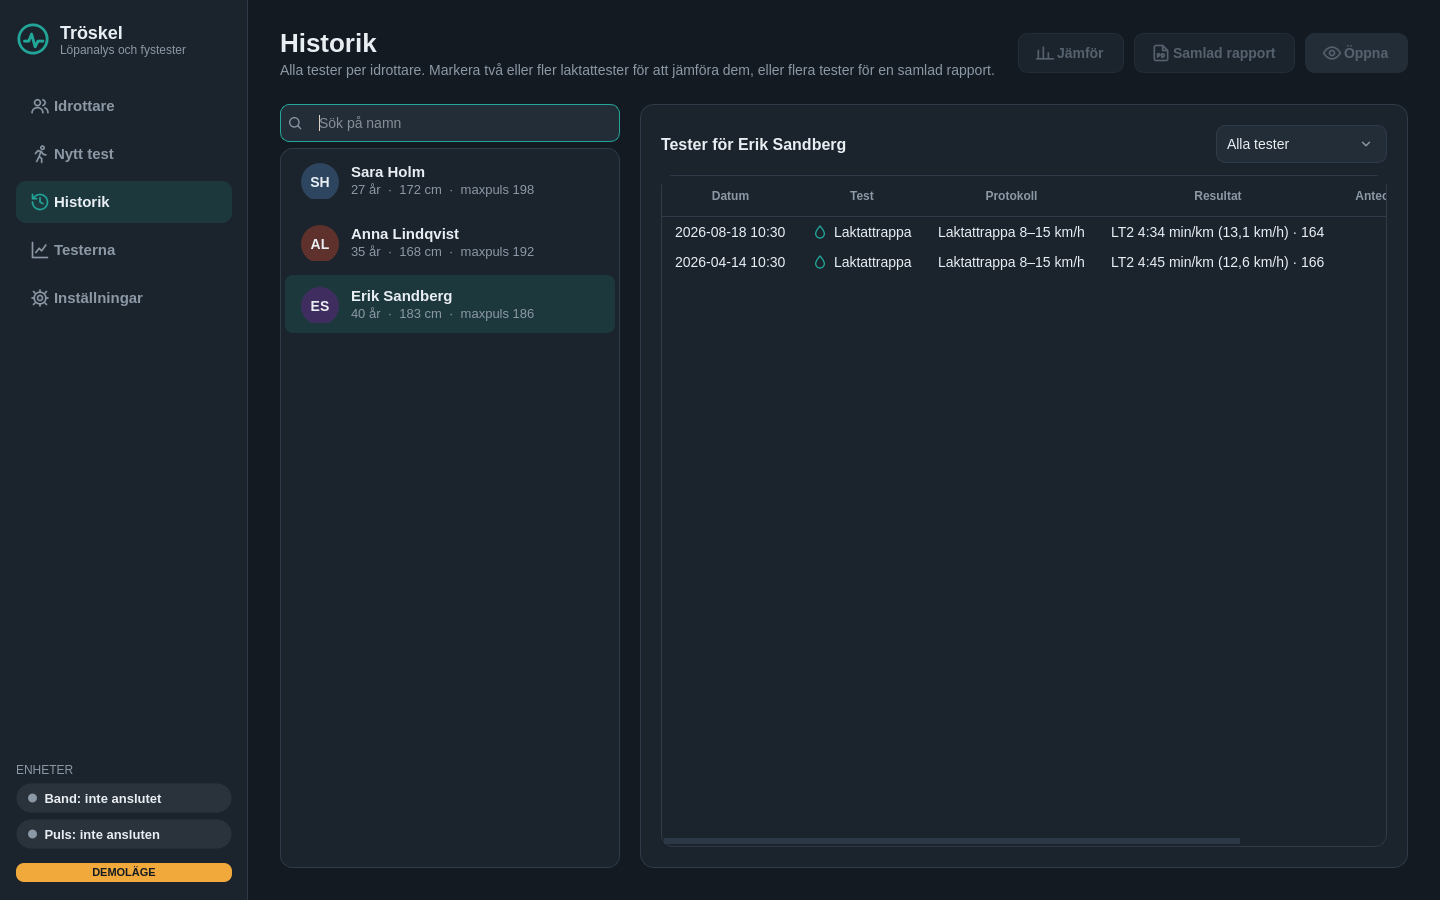
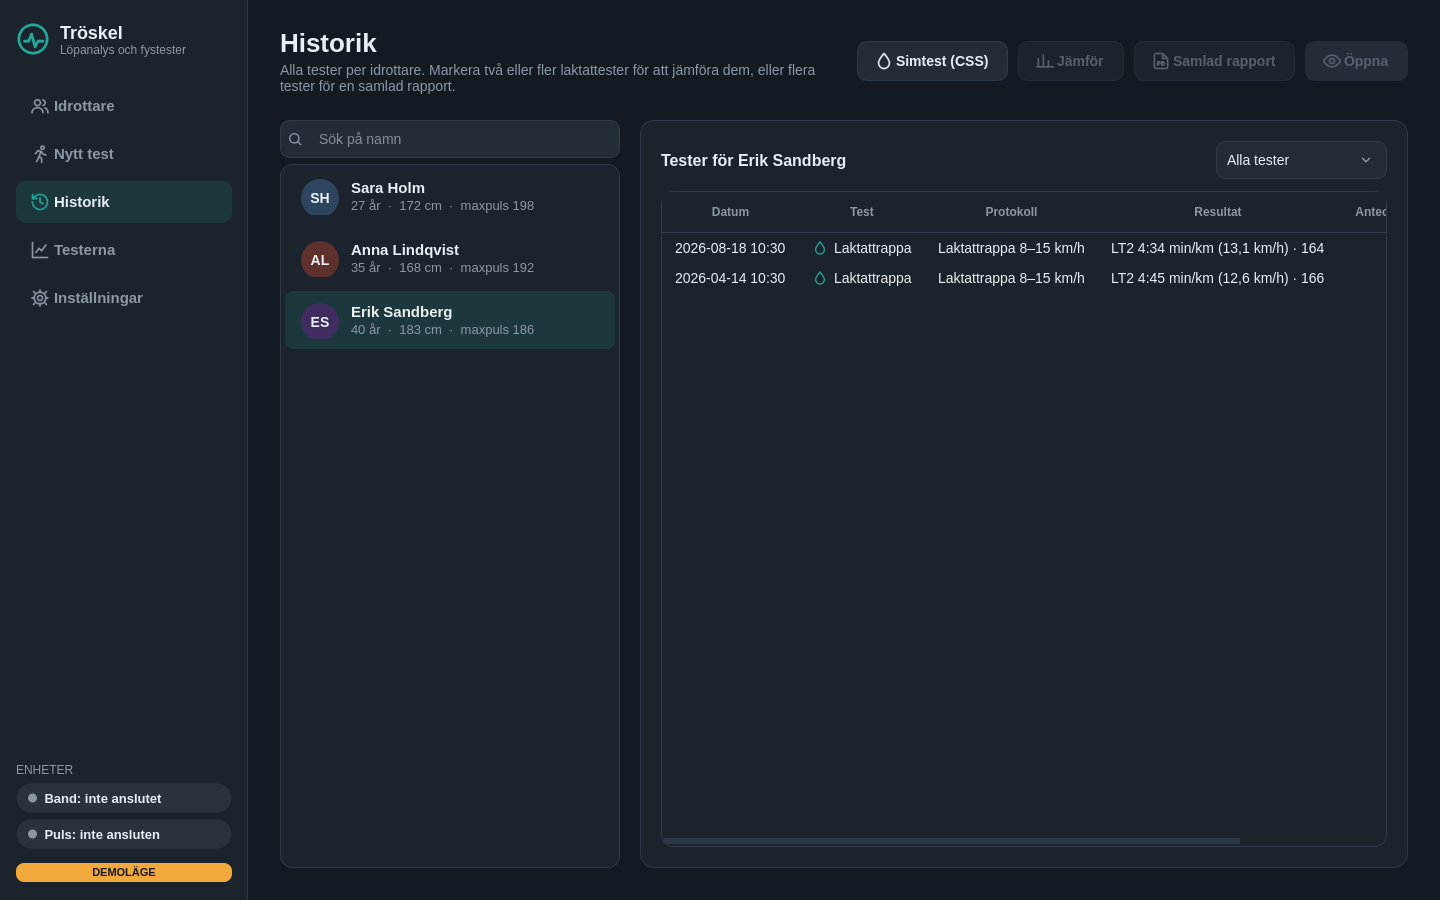
Docs: the swimming test in the handbook, the plan's guide per sport, and two rows to try on Windows (#666)
- Handbook: Simtestet (CSS) under Träningsschema, with a screenshot of the form; the history page
  names the button. docs/TRANINGSPLAN.md describes the form, the storage and the guide per sport.
- docs_shots.py: the view simtest; historik taken again (the new button).
- docs/PROV.md: the form and the reading page on the gym computer.

diff --git a/tools/docs_shots.py b/tools/docs_shots.py
@@ -41,7 +41,7 @@ FAST = 20                 # the demo clock runs this many times faster, so a sta
 DEMO_TEST_DATES = (datetime(2026, 4, 14, 8, 30, tzinfo=timezone.utc),
                    datetime(2026, 8, 18, 8, 30, tzinfo=timezone.utc))
 VIEWS = ("idrottare", "installningar", "installningar-las", "installningar-epost", "testerna", "testerna-cykel",
-         "historik",
+         "historik", "simtest",
          "jamforelse", "resultat-laktat", "resultat-zoner", "resultat-klocka", "resultat-vo2max", "skicka",
          "traningsschema", "traningsschema-idrotter", "traningsschema-mal",
          "nytt-test-idrottare", "nytt-test-testtyp", "protokoll-laktat", "protokoll-maxpuls",
@@ -357,6 +357,16 @@ class Studio:
         self.win.go("history")
         self.win.history.select_athlete(self.erik.id)
         return self.win
+
+    def simtest(self) -> Any:
+        """The form for the swimming test with two times written in."""
+        from lopanalys.ui.views.css_test import CssTestDialog
+        dlg = CssTestDialog(self.win.ctx, self.erik, None, self.win)
+        dlg.t400.setText("6:40")
+        dlg.t200.setText("3:10")
+        dlg.show()
+        self.extra.append(dlg)
+        return dlg
 
     def jamforelse(self) -> Any:
         from lopanalys.ui.views.history import CompareDialog

diff --git a/docs/TRANINGSPLAN.md b/docs/TRANINGSPLAN.md
@@ -56,7 +56,7 @@ Kommandot gör ett schema för demolöparen (aldrig en riktig person): PDF, kale
 | Ombyggnad av resten av planen (nya pass och ny volym) efter ett omtest, sjukdom och missade pass | Inte byggt (resten av steg P4) |
 | Flera idrotter: veckotiden fördelad efter andelar, hårda dagar och långpass över idrotterna, platser med flera idrotter | Byggt (steg 1 av 4), se [Flera idrotter](#flera-idrotter) |
 | Cykelns och SkiErgens egna pass med mål i watt och tid per 500 m, sweet spot som 88–94 % av tröskelwatten och ett eget test per idrott | Byggt (steg 2 av 4), se [Passbiblioteket](#passbiblioteket) och [Testet per idrott](#testet-per-idrott) |
-| Styrka (0–3 pass i veckan ovanpå uthållighetsveckan) och simning på ansträngning eller på ett manuellt CSS-test | Byggt i motorn och i appen (steg 3 av 4), se [Styrka](#styrka) och [Simning](#simning). Antalet styrkepass väljs i formuläret; formuläret för simtestet finns inte i programmet än |
+| Styrka (0–3 pass i veckan ovanpå uthållighetsveckan) och simning på ansträngning eller på ett manuellt CSS-test | Byggt i motorn och i appen (steg 3 av 4), se [Styrka](#styrka) och [Simning](#simning). Antalet styrkepass väljs i formuläret, och simtestet skrivs in från *Historik* |
 | Idrotterna i formuläret och utskriften: roll och andel, idrotterna per veckodag, en färg per idrott, idrottstabellen, watt i zonerna, veckans tid per idrott och belastningen | Byggt (steg 4 av 4), se [Utskriften](#4-utskriften). Inte provat på Windows ([PROV.md](PROV.md)) |
 | Återhämtningsblock efter ett mål, passkort | Inte byggt |
 
@@ -219,7 +219,7 @@ Idrottaren anger idrotterna med en roll och en andel av veckotiden (`PlanRequest
 - **Löpningen har ett eget tak:** löpminuterna växer högst 10 % över den största löpveckan före, så länge platsen tillåter en annan idrott.
 - **Passen i idrottens egna mallar (steg 2):** veckan fylls med löpningens mallar. När ett pass får sin idrott tar det idrottens mall på samma plats (`library.in_sport`): samma familj och steg, och varje steg exakt lika långt som löpningens, så veckans minuter står kvar. Cykelns och SkiErgens mallar kan ha fler hårda minuter, så taket på en fjärdedel över LT1 prövas igen med dem, och går veckan över stegar motorn ned som förut. Skidor och rullskidor har SkiErgens mallar, simning löpningens med idrottens namn först i titeln (*Simning: lugnt pass*) tills steg 3. Testet och loppet är desamma i alla idrotter. Se [Passbiblioteket](#passbiblioteket).
 - **Zonerna och målen per idrott:** varje idrott får puls ur sitt eget test, och målet i testets belastning (`resolve.targets`): löpning fart i min/km, cykel watt och SkiErg watt och tid per 500 m (Concept2: W = 2,80 / (s/m)³, `core.sport`). Watten avrundas till hela watt. Skidor lånar SkiErgens pulszoner tills ett eget test finns (`models.BORROWS`), men inte watten, och planen säger det. En idrott utan test får zon och ansträngning, och planen säger det, så simning går på upplevd ansträngning (RPE).
-- **Kapaciteten per idrott i programmet:** löpningens ur testet som väljs i formuläret (`services.plan_capacity`), de andra idrotternas ur idrottens senaste laktat-, maxpuls- eller zontest (`services.sport_capacity`), annars ur maxpulsen i idrotten. Skidor och simning har inga tester i Tröskel. Ett nytt test erbjuder omläggning bara i löpning.
+- **Kapaciteten per idrott i programmet:** löpningens ur testet som väljs i formuläret (`services.plan_capacity`), de andra idrotternas ur idrottens senaste laktat-, maxpuls- eller zontest (`services.sport_capacity`), annars ur maxpulsen i idrotten. Simningens kommer ur idrottarens senaste CSS-test (`services.swim_capacity`), och utan test går simningen på ansträngning. Skidor har inga tester i Tröskel. Ett nytt test erbjuder omläggning bara i löpning.
 - **Delarna** heter som förut i löpning. I de andra idrotterna heter de *Jämnt* och *Nedvarvning* i stället för *Löpning* och *Nedjogg*, och vilan med lugn rörelse *lugnt 2 min emellan* (`text.part_line`).
 - **Appen** har samma regler i TypeScript och provas mot Python-motorn: tio fall med flera idrotter (bland dem cykel och SkiErg med test, cykel ensam och skidor som huvudidrott), och titel och delar med watt och tid per 500 m för varje mall i två scheman, på svenska och engelska. Appen visar watt och tid per 500 m i passkortet. Länken bär `power_low_w` och `power_high_w` bara i mål som har watt, så ett löpschema ser ut som förut och en äldre app läser det.
 - **Äldre scheman** (motor 4) har löpningens mallar också i cykelpassen. De läses som de är och visas med idrottens namn och cykelns watt.
@@ -247,7 +247,9 @@ Styrka är en egen idrott utan zoner och utan test (`models.STRENGTH`, beslutet 
 
 Simningen har egna mallar (se [Passbiblioteket](#passbiblioteket)) och följer upplevd ansträngning (RPE). Utan simtest visar passet zon och ansträngning, utan siffror.
 
-- **Simtestet** är ett manuellt test utan utrustning (`assessments/css.py`): 400 m och sedan, efter full vila, 200 m, båda så fort ett jämnt tempo tillåter. CSS-tempot per 100 m är (T400 − T200) / 2. Testet sparas som ett manuellt pass med `to_result` (`kind: "swim_css"`), och `capacity` ger planens `Capacity` för simning. Tiderna kontrolleras: 200 m mellan 1:40 och 10:00, 400 m mellan 3:20 och 20:00, och 400 m tar mer än dubbelt så lång tid som 200 m.
+- **Simtestet** är ett manuellt test utan utrustning (`assessments/css.py`): 400 m och sedan, efter full vila, 200 m, båda så fort ett jämnt tempo tillåter. CSS-tempot per 100 m är (T400 − T200) / 2. `capacity` ger planens `Capacity` för simning. Tiderna kontrolleras: 200 m mellan 1:40 och 10:00, 400 m mellan 3:20 och 20:00, och 400 m tar mer än dubbelt så lång tid som 200 m.
+- **I programmet** skrivs testet in i formuläret *Simtest (CSS)* på sidan *Historik* (`ui/views/css_test.py`): tiderna, datumet och bassängens längd. Felen är texterna som `css.check` ger nycklar till. Testet sparas som ett pass utan mätvärden (`services.save_css_test`): `Session` med `kind = TestKind.SWIM_CSS`, `sport = Sport.SWIM`, inga steg och `result = css.to_result(test)`. Simning är därför en sport i `core.sport.Sport`, men den går inte att välja i guiden *Nytt test*. Historiken visar testet med tempot och öppnar det i formuläret igen. Handboken: [Simtestet (CSS)](handbok/traningsschema/traningsschema.md#simtestet-css).
+- **Schemat tar testet av sig självt:** `services.sport_capacity` ger simningen kapaciteten ur idrottarens senaste giltiga CSS-test (`services.swim_capacity`), och formuläret säger under idrotten vilket test tempot kommer ur.
 - **Med ett simtest** får simpassen tempo per 100 m i varje zon (`resolve.SWIM_ZONES`), som sekunder runt CSS-tempot:
 
 | Zon | Tempo per 100 m |
@@ -371,9 +373,11 @@ Utskriften byggs i rapportmotorn (`report/plan_builder.py` och mallen `plan.html
 | Sida | Innehåll |
 |---|---|
 | **Översikten** (sida 1) | Målet och delmålen, perioden, testet schemat bygger på, tillgänglig tid, fyra nyckeltal, blocken som ett band över en stapel per vecka (tid per zon, med lätt vecka, test och lopp utmärkta) och zonerna med puls och fart (watt på cykel, watt och tid per 500 m på SkiErg) |
-| **Så läser du schemat** (1–2 sidor) | Blocken med skälen, zontabellen, passen som schemat använder med syfte och känsla, reglerna bakom schemat och ansvarstexten |
+| **Så läser du schemat** (1–2 sidor, upp till 3 med flera idrotter) | Rutan *Så använder du schemat* och schemats anmärkningar, blocken med skälen, zontabellen, passen som schemat använder med syfte och känsla, reglerna bakom schemat och ansvarstexten |
 | **Veckoblad** (en sida per vecka med pass) | Sju dagar: tid, passets namn och syfte, delarna med zon, puls och fart, en ruta att bocka av och rader att anteckna på. Dagens pass i tidsordning. Veckans syfte överst, och nederst veckans tid per zon och belastningen (`Week.load`) |
 
+- **Passen i schemat** (`plan_builder._guide`) tar varje mall som schemat använder, i en grupp per idrott som har egna mallar: löpning, cykel (också sweet spot), SkiErg, simning och styrka, och idrottens eget test. Grupperna står i idrotternas ordning med huvudidrotten först och har idrotten som rubrik. Skidor använder SkiErgens mallar och står i dess rubrik. Ett schema med bara löpning har en grupp utan rubrik.
+- **Sidbrytningarna:** rutan *Så använder du schemat* och anmärkningarna står överst i läsanvisningen och inte på översikten, där de inte rymdes och hamnade ensamma på en egen sida. Ansvarstexten hålls ihop med reglerna. Provet `tests/report/test_report_plan_guide.py` läser PDF:en sida för sida.
 - **Titlarna** kommer ur `Plan.title`, så i ett schema med flera idrotter eller med styrka börjar varje pass med idrotten.
 - **Styrka och simning:** styrkepassen står på veckobladet utan zon, med ansträngningen, i styrkans färg, och sist i idrottstabellen med antalet pass i veckan. Simningen med ett CSS-test får tid per 100 m i passen och en rad under *Dina zoner*. Veckans tid i veckohuvudet är uthållighetstiden; stapeln per idrott och belastningen tar med styrkan.
 - **Flera idrotter:** idrottstabellen på översikten (roll, andel som procent av andelarnas summa, och testet med datum, eller att skidor lånar SkiErgens zoner och att simning går på ansträngning) i stället för raden *Bygger på*. Under *Dina zoner* en rad per annan idrott vars test ger watt. En färg per idrott (`core.zone_colors.sport_color`, ingen av dem en zonfärg) bredvid passets namn i stället för zonfärgen, och veckans tid per idrott som en stapel på veckobladet. Resten av översikten ritas lite mindre, så att den ryms på en sida.

diff --git a/docs/handbok/traningsschema/traningsschema.md b/docs/handbok/traningsschema/traningsschema.md
@@ -8,6 +8,7 @@
 - [Öppna träningsschemat](#öppna-träningsschemat)
 - [Fyll i formuläret](#fyll-i-formuläret)
   - [Flera idrotter](#flera-idrotter)
+  - [Simtestet (CSS)](#simtestet-css)
   - [Vad testet ger schemat](#vad-testet-ger-schemat)
 - [Förhandsvisa schemat](#förhandsvisa-schemat)
 - [Förnya schemat](#förnya-schemat)
@@ -55,11 +56,32 @@ Under *Idrotter* finns löpning, cykel, SkiErg, skidor och simning. Löpning är
 - **Roll:** *Huvudidrott* (målets idrott, som får långpasset och testet), *Stödjande* eller *Underhåll* (högst ett lugnt pass i veckan). Det finns en huvudidrott: väljer du en ny blir den förra stödjande.
 - **Andel:** hur stor del av veckans tid idrotten får, i tiotal procent. Rollen fyller i 60, 30 eller 10 %. Andelarna räknas mot varandra, så 60 och 30 ger två tredjedelar och en tredjedel.
 
-Under varje idrott utom löpning står vad zonerna bygger på: idrottens senaste laktat-, maxpuls- eller zontest, annars maxpulsen i idrotten (uppskattade zoner), annars bara zon och ansträngning. Skidor lånar SkiErgens zoner, och simning går på upplevd ansträngning: simtestet (CSS) går inte att göra i programmet än. Med flera idrotter får varje veckodag en knapp för idrotterna den dagen, där *Alla* är förvalt.
+Under varje idrott utom löpning står vad zonerna bygger på: idrottens senaste laktat-, maxpuls- eller zontest, annars maxpulsen i idrotten (uppskattade zoner), annars bara zon och ansträngning. Skidor lånar SkiErgens zoner. Simning tar tempot per 100 m ur idrottarens senaste [simtest](#simtestet-css), och går på upplevd ansträngning när det inte finns något. Med flera idrotter får varje veckodag en knapp för idrotterna den dagen, där *Alla* är förvalt.
 
 ![Formuläret med löpning som huvudidrott och cykel som stödjande idrott, och tisdagen bara för cykel](images/idrotter.png)
 
 Hur motorn fördelar passen över idrotterna står i [Träningsplanen → Flera idrotter](../../TRANINGSPLAN.md#flera-idrotter).
+
+### Simtestet (CSS)
+
+Simtestet ger det kritiska simtempot (CSS, Critical Swim Speed): tempot per 100 m som idrottaren kan hålla länge, ett mått på tröskeln i vattnet. Testet görs i bassängen utan utrustning, och du skriver in tiderna efteråt.
+
+1. **Idrottaren simmar** 400 m så fort ett jämnt tempo tillåter, vilar tills hen är återhämtad och simmar sedan 200 m på samma sätt. Båda börjar i vattnet med frånskjut från kanten.
+2. **Öppna *Historik*,** välj idrottaren och tryck *Simtest (CSS)*.
+3. **Skriv in tiderna** på 400 m och 200 m som minuter och sekunder (*6:40* eller *6:40,5*), datumet och bassängens längd (25 eller 50 m). Tempot visas direkt under fälten, till exempel *CSS 1:45 /100 m*: skillnaden mellan tiderna delad med två.
+4. **Tryck *Spara*.**
+
+![Formuläret för simtestet: tiderna på 400 m och 200 m, datum, bassäng och det uträknade tempot](images/simtest.png)
+
+Går tiderna inte ihop står felet i rött när du sparar, och inget sparas:
+
+- **en tid saknas** eller går inte att läsa,
+- **en tid är orimlig:** 200 m ska ligga mellan 1:40 och 10:00, och 400 m mellan 3:20 och 20:00,
+- **400 m tar inte mer än dubbelt så lång tid som 200 m:** då har tiderna oftast bytt plats.
+
+Testet står sedan i *Historik* som *Simning · CSS-test* med tempot. Det har ingen resultatsida: *Öppna* visar formuläret igen, där du kan rätta tiderna. Det går inte att jämföra eller ta med i en samlad rapport, eftersom det inte har några mätvärden.
+
+Nästa gång du bygger ett schema med simning står *Tempot ur CSS-testet* med datum och tempo under idrotten, och simpassen får tid per 100 m i varje zon. Zonerna står i [Träningsplanen → Simning](../../TRANINGSPLAN.md#simning).
 
 ### Vad testet ger schemat
 
@@ -87,14 +109,15 @@ Tryck *Förhandsvisa*. Översikten till höger visar:
 
 Schemat börjar på det idrottaren tränar nu och växer mot den tillgängliga tiden, högst nivåns takt (5, 7 eller 8 %) per belastningsvecka. Ligger starten nära den tillgängliga tiden växer det långsammare, så att hela tiden nås först i slutet av uppbyggnaden. Tränar idrottaren mer än dagarna rymmer börjar schemat på all tillgänglig tid och står still i tid; ökningen ligger då i passen. Samma diagram med linjerna finns på utskriftens första sida.
 
-Saknas något i formuläret står det i rött under översikten, till exempel *Välj nivå*. Ändrar du formuläret efter en förhandsvisning säger en gul rad att översikten inte visar ändringarna än. *Visa utskriften* öppnar hela utskriften: översikten, läsanvisningen, ett blad per vecka med pass och sist skissen över veckorna efter. Veckobladet har dagens pass i tidsordning och veckans belastning längst ned (minuter × zon × idrott, för att jämföra veckorna).
+Saknas något i formuläret står det i rött under översikten, till exempel *Välj nivå*. Ändrar du formuläret efter en förhandsvisning säger en gul rad att översikten inte visar ändringarna än. *Visa utskriften* öppnar hela utskriften: översikten, läsanvisningen, ett blad per vecka med pass och sist skissen över veckorna efter. Läsanvisningen börjar med rutan *Så använder du schemat* och förklarar under *Passen i schemat* varje sorts pass som schemat har. Veckobladet har dagens pass i tidsordning och veckans belastning längst ned (minuter × zon × idrott, för att jämföra veckorna).
 
 Med flera idrotter, eller med styrkepass, börjar varje pass med idrotten (*Löpning: lugnt pass*), och utskriften har också:
 
 - **en tabell över idrotterna** på första sidan: roll, andel av tiden och testet zonerna bygger på, med datum. Styrkan står sist med antalet pass i veckan,
 - **en rad per idrott med watt eller tempo under *Dina zoner***: cykelns watt, SkiErgens watt och tid per 500 m och, med ett simtest, simningens tid per 100 m, zon för zon. Styrkepassen har ingen zon, bara ansträngningen,
 - **en färg per idrott** bredvid passets namn på veckobladet. Färgerna skiljer sig från zonernas,
-- **veckans tid per idrott** som en stapel längst ned på veckobladet.
+- **veckans tid per idrott** som en stapel längst ned på veckobladet,
+- **passen per idrott i läsanvisningen:** *Passen i schemat* har en rubrik per idrott med idrottens egna pass, också testet i idrotten och styrkepassen. Skidor står ihop med SkiErgen, vars pass de använder.
 
 Hur schemat räknas fram (block, lätta veckor, andelen lugn träning) står i [Träningsplanen](../../TRANINGSPLAN.md#2-planmotorn).
 

diff --git a/docs/PROV.md b/docs/PROV.md
@@ -195,6 +195,8 @@ Analysen är byggd och provad mot syntetiska cyklister och stakare, där sanning
 | Kalenderfilen | Spara *Kalenderfil* från sidan *Träningsschema* och öppna den i en iPhone och en Android-telefon | Passen hamnar på rätt dag och klockslag, med å, ä och ö rätt i beskrivningen. En ny import dubblerar inget | |
 | Träningsschemat med flera idrotter | Sidan *Träningsschema* på gymdatorn: kryssa i cykel och SkiErg, välj roller och andelar och två styrkepass, begränsa en dag till cykel, förhandsvisa, spara, öppna igen och spara som PDF | Raden *Idrotter* och knappen per dag ryms i formuläret, allt läses tillbaka, förstasidan med idrottstabellen och watten under *Dina zoner* ryms på en sida och idrottsfärgerna syns i utskriften | |
 | Schemat med e-post | *Skicka till idrottaren* på sidan *Träningsschema* till en egen inkorg, och öppna bilagorna i en iPhone och en Android-telefon | Mejlet kommer fram (inte i skräpposten) med PDF:en och kalenderfilen. Kalenderfilen går att öppna ur mejlet med anvisningen i texten | |
+| Simtestet (CSS) | *Simtest (CSS)* på sidan *Historik* på gymdatorn: skriv in 400 m och 200 m med datum och bassäng, spara, öppna testet igen och rätta en tid. Bygg sedan ett schema med simning och spara det som PDF | Formuläret ryms i fönstret, kalendern öppnas, felen står i rött, testet står i historiken med tempot, och simpassen i PDF:en har tid per 100 m | |
+| Läsanvisningen i schemat | Spara ett schema med bara löpning och ett med fyra idrotter och styrka som PDF på gymdatorn, och skriv ut dem | Rutan *Så använder du schemat* står överst på sida 2, ingen sida är nästan tom, och *Passen i schemat* har en rubrik per idrott | |
 | Om testerna | Sidan *Testerna*: skriv ut *Om testerna* och spara som PDF, för *Löpning*, *Cykel* och *SkiErg* | Varje sport får plats på en A4, texten går att läsa på papper | |
 
 ## FIT-filen och mejlet

diff --git a/docs/handbok/resultat/resultat.md b/docs/handbok/resultat/resultat.md
@@ -122,7 +122,7 @@ Jämförelsen med klockans VO2max eller ett labbtest är *(inte provat på rikti
 
 ![Sidan Historik: idrottarna till vänster och den valda idrottarens tester till höger](images/historik.png)
 
-*Historik* visar alla tester per idrottare, med datum, test, protokoll, resultat och anteckning. Listan uppe till höger filtrerar på testtyp. Dubbelklicka på ett test, eller markera det och tryck på *Öppna*.
+*Historik* visar alla tester per idrottare, med datum, test, protokoll, resultat och anteckning. Listan uppe till höger filtrerar på testtyp. Dubbelklicka på ett test, eller markera det och tryck på *Öppna*. *Simtest (CSS)* skriver in ett simtest för den valda idrottaren, se [Träningsschema → Simtestet (CSS)](../traningsschema/traningsschema.md#simtestet-css).
 
 **Jämför:** markera två till fyra laktattester och tryck på *Jämför*. Kurvorna ritas i samma diagram, med det senaste testets trösklar utritade, och tabellen visar farten och pulsen vid LT1 och LT2 för varje test.
 

diff --git a/docs/ARKITEKTUR.md b/docs/ARKITEKTUR.md
@@ -87,7 +87,7 @@ src/lopanalys/
                 hr_zones.py (Puls- och fartzoner: stabil puls per steg, sambandet puls–fart och zonernas fart),
                 zone_systems.py (zonsystemen som data, omräkning och Garmin-värden), vo2max.py (uppskattat VO2max),
                 catalog.py (texterna om testerna), cadence.py (pulsbandets kadens före kamerans),
-                css.py (simtestet: CSS ur 400 m och 200 m, sparas som ett manuellt test)
+                css.py (simtestet: CSS ur 400 m och 200 m, sparas som ett manuellt test; formuläret är ui/views/css_test.py)
   plan/         models.py, library.py (passbiblioteket), periodize.py (block och veckor), engine.py (build_plan),
                 resolve.py (zon till puls och fart, omtest), text.py, ics.py (kalenderfil),
                 codec.py (schemat som JSON för lagringen), demo.py (exempelschema)
